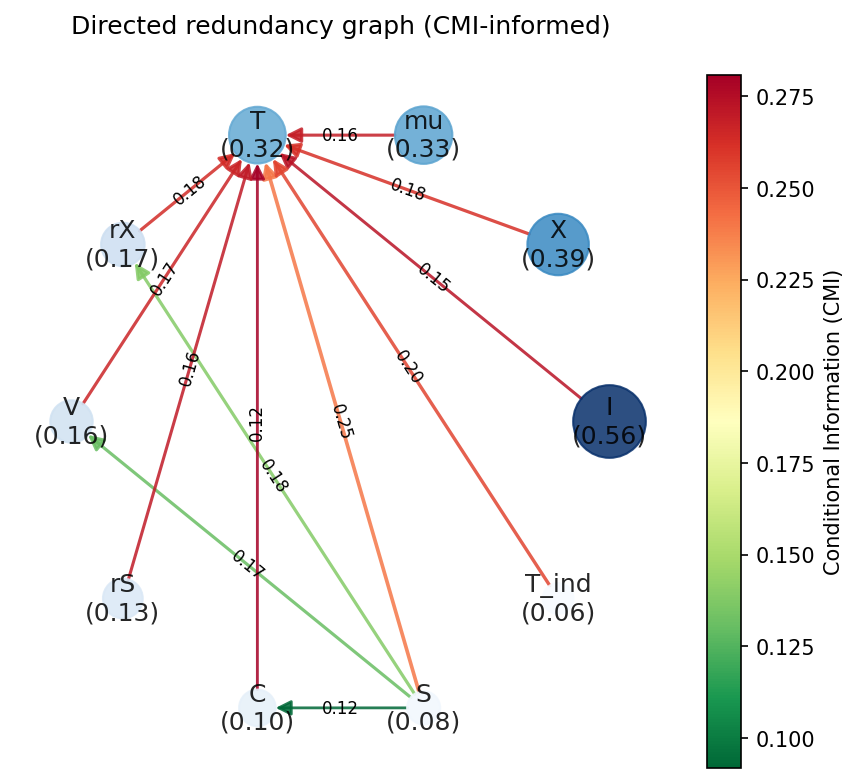
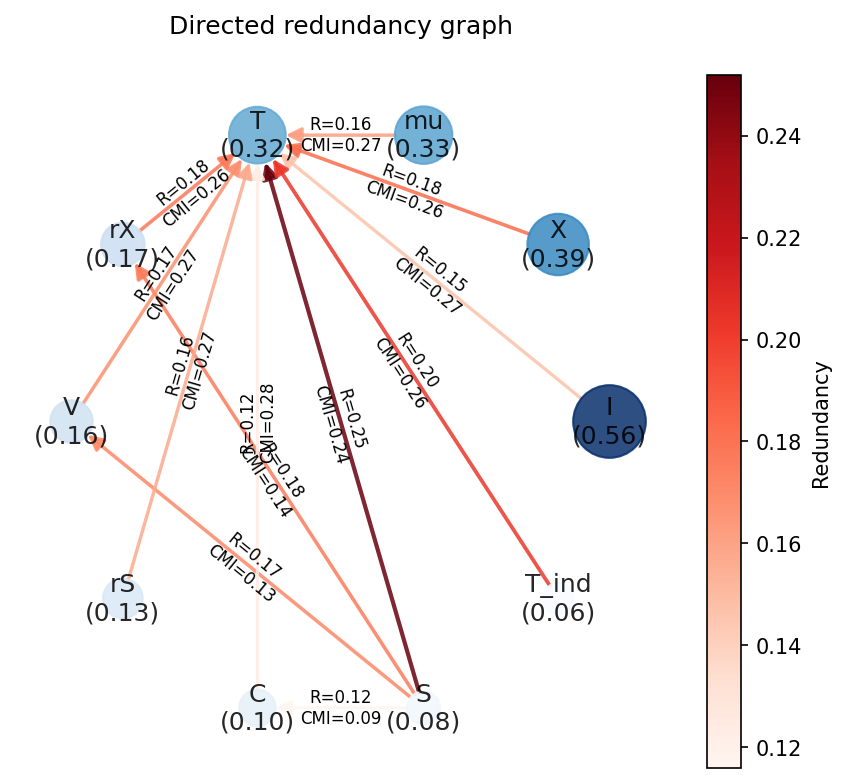
mrmr
Peng method integration over mrmr methodoly

diff --git a/src/utils/filter.py b/src/utils/filter.py
@@ -12,7 +12,7 @@ from src.utils.plots_filter import (
 
 import numpy as np
 
-def mrmr_selection(fs_df, redundancy_graph, n_features=5, lambda_1=0.7, lambda_2=0.3): # cmi_matrix
+def mrmr_selection(fs_df, redundancy_graph=None, mi_feature_matrix=None, n_features=5, lambda_1=1.0, lambda_2=1.0, method='cmi'): # Peng, Long y Ding (2005)
     """
     Select features using a max-relevance min-redundancy criterion
     based on Mutual Information (MI) and redundancy.
@@ -47,7 +47,7 @@ def mrmr_selection(fs_df, redundancy_graph, n_features=5, lambda_1=0.7, lambda_2
         "feature": first_feature,
         "relevance": first_relevance,
         "redundancy": 0.0,
-        "score": first_relevance
+        "score": lambda_1 * first_relevance
     })
 
     remaining = [ f for f in fs_df["feature"] if f not in selected]
@@ -57,13 +57,23 @@ def mrmr_selection(fs_df, redundancy_graph, n_features=5, lambda_1=0.7, lambda_2
         candidate_info = {}
         for feat in remaining:
             relevance = ( fs_df.loc[ fs_df["feature"] == feat, "mi_norm" ].iloc[0] )
-            redundancies = []
 
-            for sel in selected:
-                if redundancy_graph.has_edge(sel, feat):
-                    redundancies.append(redundancy_graph[sel][feat]["redundancy"])
+            if method == 'cmi':
+                redundancies = []
+                for sel in selected:
+                    if redundancy_graph.has_edge(sel, feat):
+                        redundancies.append(redundancy_graph[sel][feat]["redundancy"])
+                redundancy = (np.mean(redundancies) if redundancies else 0.0)
 
-            redundancy = (np.mean(redundancies) if redundancies else 0.0)
+            elif method == 'peng':
+                redundancies = []
+                for sel in selected:
+                    mi_ff_max = np.nanmax(mi_feature_matrix.values)
+                    mi_ff = mi_feature_matrix.loc[sel, feat] / (mi_ff_max + 1e-10)
+                    redundancies.append(mi_ff)
+                redundancy = (np.mean(redundancies) if redundancies else 0.0)
+            else:
+                raise ValueError(f"Unknown method '{method}'" "Choose 'cmi' or 'peng'")
 
             score = (lambda_1 * relevance - lambda_2 * redundancy)
 
@@ -73,12 +83,10 @@ def mrmr_selection(fs_df, redundancy_graph, n_features=5, lambda_1=0.7, lambda_2
                 "score": score
             }
 
+
         best_feature = max(candidate_info, key=lambda f: candidate_info[f]["score"])
-
         selected.append(best_feature)
-
         selection_info.append({ "feature": best_feature, **candidate_info[best_feature] })
-
         remaining.remove(best_feature)
 
     return pd.DataFrame(selection_info)

diff --git a/src/workflow/model_analysis/feature_filter.py b/src/workflow/model_analysis/feature_filter.py
@@ -46,8 +46,9 @@ class FeaturesFilterWorkflow:
         self.selected_features = {}
         for param in self.obj_param:
             fs = self.selection_results[param]["fs"]
+            cmi = self.selection_results[param]["cmi"]
             graph = self.selection_results[param]["graph"]
-            mrmr_df = mrmr_selection(fs_df=fs, redundancy_graph=graph, n_features=n_features)
+            mrmr_df = mrmr_selection(fs_df=fs, redundancy_graph=graph, mi_feature_matrix=cmi, n_features=n_features)
             self.selected_features[param] = mrmr_df
 
         # return self.selected_features
@@ -57,11 +58,11 @@ class FeaturesFilterWorkflow:
         for target, mrmr_df in self.selected_features.items():
             temp = mrmr_df.copy()
             temp["target"] = target
-            temp["rank"] = range( 1, len(temp) + 1 )
+            # temp["rank"] = range( 1, len(temp) + 1 )
             rows.append(temp)
 
         summary = pd.concat( rows, ignore_index=True )
-        summary = summary[ [ "target", "rank", "feature", "relevance", "redundancy", "score" ] ]
+        summary = summary[ [ "target", "feature", "relevance", "redundancy", "score" ] ] # "rank",
         summary.to_excel( f"{self.filter_path}/mrmr_selected_features.xlsx", index=False, engine="openpyxl" )
 
         return summary
